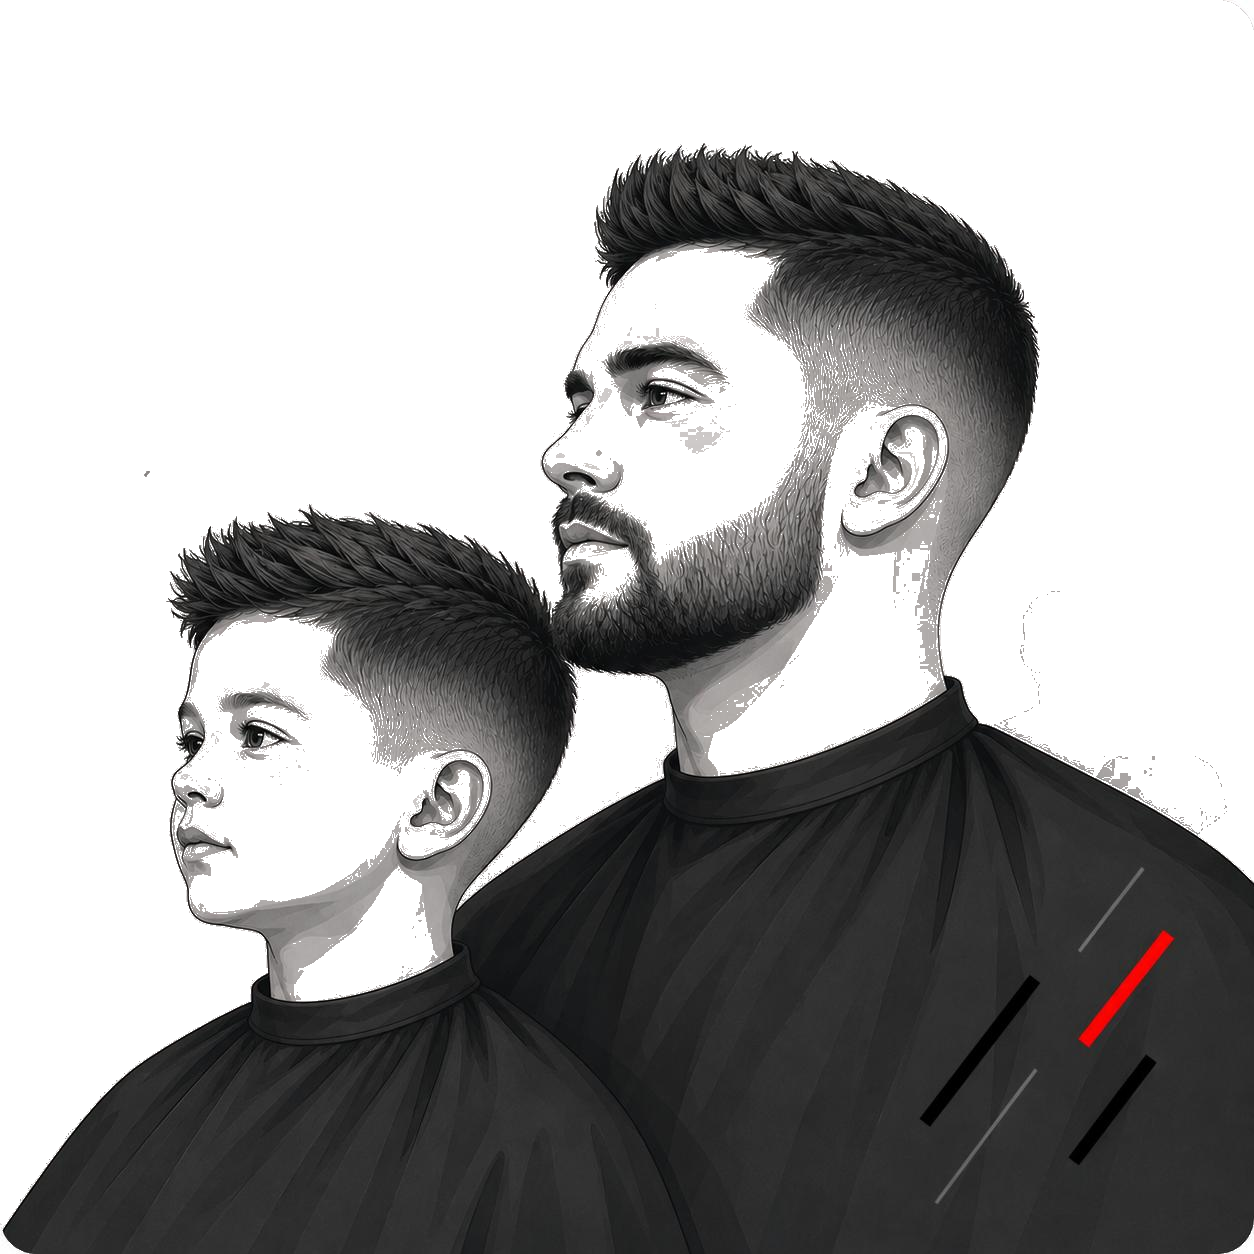
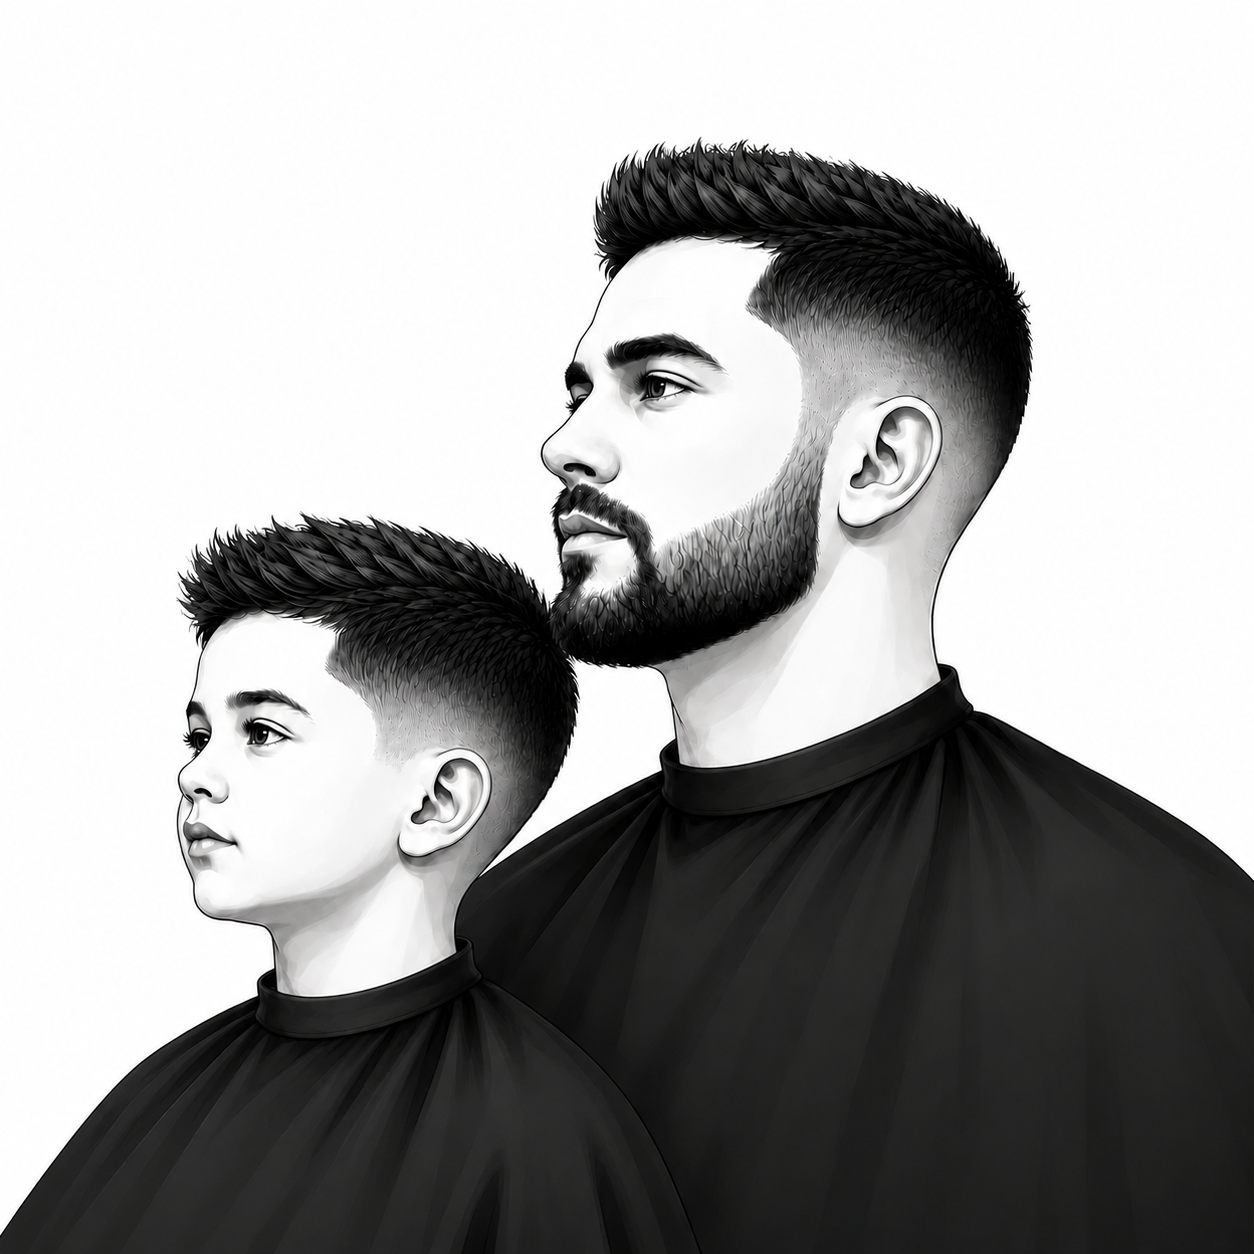
Add files via upload

diff --git a/app.js b/app.js
@@ -39,7 +39,7 @@ const masters=[
 {id:104,display:4,enabled:false},
 {id:105,display:5,enabled:false}
 ];
-const state={screen:'home',flow:'services',base:null,selectedExtras:{},phone:'',consentAccepted:true,master:null,masterBackendId:null,rating:null,selectedSource:null,modal:null,entry:'haircut',promoCode:'',promoDraft:'',promoError:'',promoValidating:false,useBonuses:false,bonusVerified:false,birthDraft:'',birthError:'',birthValidating:false,servicePin:'',servicePinError:'',servicePinValidating:false,serviceAuthed:false,serviceBusy:null,serviceMessages:[],promotionSelection:null,cosmeticsCategory:'shampoo',cosmeticsManufacturer:'ESTEL',cosmeticsCart:{},receiptTo:'none',receiptPhone:'',receiptEmail:'',emailDraft:'',emailError:'',emailSaving:false,emailShift:false,paymentMethod:'',scale:1};
+const state={screen:'home',flow:'services',base:null,selectedExtras:{},phone:'',consentAccepted:true,master:null,masterBackendId:null,rating:null,selectedSource:null,modal:null,entry:'haircut',promoCode:'',promoDraft:'',promoError:'',promoValidating:false,useBonuses:false,bonusVerified:false,birthDraft:'',birthError:'',birthValidating:false,servicePin:'',servicePinError:'',servicePinValidating:false,serviceAuthed:false,serviceBusy:null,serviceMessages:[],promotionSelection:null,cosmeticsCategory:'shampoo',cosmeticsManufacturer:'ESTEL',cosmeticsCart:{},receiptTo:'none',receiptPhone:'',receiptEmail:'',emailDraft:'',emailError:'',emailSaving:false,emailShift:false,emailSelectedDomain:'@mail.ru',paymentMethod:'',scale:1};
 const __p=new URLSearchParams(location.search);if(__p.get('demo')==='extras'){state.screen='extras';state.base=haircuts[1];state.entry='haircut';state.selectedExtras={'wash-style':1,'beard':1,'fade':1};}if(__p.get('demo')==='phone'){state.screen='phone';state.base=haircuts[1];state.entry='haircut';state.selectedExtras={'wash-style':1,'beard':1,'fade':1};}if(__p.get('demo')==='source'){state.screen='source';state.base=haircuts[1];state.entry='haircut';state.selectedExtras={'wash-style':1};}
 if(__p.get('demo')==='promos'){state.screen='promos';}
 if(__p.get('demo')==='cosmetics'){state.flow='cosmetics';state.screen='cosmetics';}
@@ -60,8 +60,17 @@ const serviceNameForReceipt=(base)=> base && base.id==='halfbox' ? 'Мужска
 const openPromoModal=()=>{state.promoDraft=state.promoCode||'';state.promoError='';state.promoValidating=false;state.modal='promo';render();};
 const closePromoModal=()=>{state.modal=null;state.promoDraft='';state.promoError='';state.promoValidating=false;render();};
 const validatePromoCode=(code)=> new Promise(resolve=>setTimeout(()=>{const normalized=(code||'').trim();const validCodes=new Set(['1234','1111','5555','123456']);if(validCodes.has(normalized))resolve({ok:true,code:normalized});else resolve({ok:false,message:'Промокод не найден или недействителен'});},450));
-const openEmailModal=()=>{state.emailDraft=state.receiptEmail||'';state.emailError='';state.emailSaving=false;state.emailShift=false;state.modal='email';render();};
-const closeEmailModal=()=>{state.modal=null;state.emailDraft='';state.emailError='';state.emailSaving=false;state.emailShift=false;render();};
+const openEmailModal=()=>{state.emailDraft=state.receiptEmail||'';const existingDomain=(state.emailDraft.includes('@')?'@'+state.emailDraft.split('@').slice(1).join('@'):'')||'';state.emailSelectedDomain=existingDomain||'@mail.ru';state.emailError='';state.emailSaving=false;state.emailShift=false;state.modal='email';render();};
+const closeEmailModal=()=>{state.modal=null;state.emailDraft='';state.emailError='';state.emailSaving=false;state.emailShift=false;state.emailSelectedDomain='@mail.ru';render();};
+const applyEmailDomain=(domain)=>{
+  if(!domain)return;
+  const current=state.emailDraft||'';
+  const at=current.indexOf('@');
+  state.emailDraft=at===-1 ? current+domain : current.slice(0,at)+domain;
+  state.emailSelectedDomain=domain;
+  state.emailError='';
+  render();
+};
 const emailLooksValid=(value)=>{const v=(value||'').trim();if(!v)return {ok:false,message:'Введите e-mail.'};if(/\s/.test(v)||!v.includes('@'))return {ok:false,message:'Проверьте правильность e-mail.'};const parts=v.split('@');if(parts.length!==2||!parts[0]||!parts[1]||!parts[1].includes('.')||parts[1].startsWith('.')||parts[1].endsWith('.'))return {ok:false,message:'Проверьте правильность e-mail.'};return {ok:true,value:v};};
 const saveReceiptEmail=async(value)=>{try{if(typeof window.STRIZHEM_SAVE_RECEIPT_EMAIL==='function'){const r=await window.STRIZHEM_SAVE_RECEIPT_EMAIL(value);return r&&typeof r==='object'?r:{ok:!!r};}return await new Promise(resolve=>setTimeout(()=>resolve({ok:true}),280));}catch(e){return {ok:false,message:'Не удалось сохранить e-mail. Попробуйте ещё раз.'};}};
 const openBirthModal=()=>{state.birthDraft='';state.birthError='';state.birthValidating=false;state.modal='birthdate';render();};
@@ -323,7 +332,7 @@ if(state.modal==='email'){
   const hasError=!!state.emailError;
   const canOk=!!state.emailDraft && !state.emailSaving;
   const letters=(s)=>s.split('').map(ch=>`<button type="button" class="email-key" data-email-key="${ch}">${state.emailShift?ch.toUpperCase():ch}</button>`).join('');
-  return `<div class="overlay promo-overlay email-overlay"><div class="modal email-modal" role="dialog" aria-modal="true" aria-labelledby="emailModalTitle"><div class="email-modal-header"><img src="./brand/logo.svg" alt="СТРИЖЁМ — мужские стрижки"></div><h2 id="emailModalTitle" class="email-modal-title">ВВЕДИТЕ E-MAIL</h2><div class="email-input-wrap ${hasError?'error':''}"><span class="email-input-value ${state.emailDraft?'filled':''}">${state.emailDraft||'Введите e-mail'}</span><button type="button" class="email-clear" data-action="email-clear" aria-label="Очистить">×</button></div><div class="email-error-slot ${hasError?'visible':''}">${hasError?`<span class="email-error-icon">!</span><span>${state.emailError}</span>`:'<span class="email-error-placeholder" aria-hidden="true"></span>'}</div><div class="email-keyboard"><div class="email-row email-row-12">${'1234567890'.split('').map(ch=>`<button type="button" class="email-key" data-email-key="${ch}">${ch}</button>`).join('')}<button type="button" class="email-key" data-email-key="-">-</button><button type="button" class="email-key" data-email-key="_">_</button></div><div class="email-row email-row-12">${letters('qwertyuiop')}<button type="button" class="email-key" data-email-key="@">@</button><button type="button" class="email-key" data-email-key=".">.</button></div><div class="email-row email-row-12"><button type="button" class="email-key email-shift ${state.emailShift?'active':''}" data-action="email-shift">⇧</button>${letters('asdfghjkl')}<button type="button" class="email-key" data-email-key=";">;</button><button type="button" class="email-key email-backspace" data-action="email-backspace">⌫</button></div><div class="email-row email-row-10"><button type="button" class="email-key email-quick" data-email-key=".com">.com</button>${letters('zxcvbnm')}<button type="button" class="email-key" data-email-key=",">,</button><button type="button" class="email-key email-quick wide" data-email-key="@gmail.com">@gmail.com</button></div><div class="email-row email-row-bottom"><button type="button" class="email-key email-muted" data-action="email-numbers">123</button><button type="button" class="email-key email-space" disabled>ПРОБЕЛ</button><button type="button" class="email-key email-muted" data-action="email-backspace">УДАЛИТЬ</button></div></div><div class="email-actions"><button type="button" class="email-cancel" data-action="cancel-email-modal">ОТМЕНА</button><button type="button" class="email-ok" data-action="confirm-email" ${canOk?'':'disabled'}>${state.emailSaving?'СОХРАНЕНИЕ...':'OK'}</button></div></div></div>`;
+  return `<div class="overlay promo-overlay email-overlay"><div class="modal email-modal" role="dialog" aria-modal="true" aria-labelledby="emailModalTitle"><div class="email-modal-header"><img src="./brand/logo.svg" alt="СТРИЖЁМ — мужские стрижки"></div><h2 id="emailModalTitle" class="email-modal-title">ВВЕДИТЕ E-MAIL</h2><div class="email-input-wrap ${hasError?'error':''}"><span class="email-input-value ${state.emailDraft?'filled':''}">${state.emailDraft||'Введите e-mail'}</span><button type="button" class="email-clear" data-action="email-clear" aria-label="Очистить">×</button></div><div class="email-error-slot ${hasError?'visible':''}">${hasError?`<span class="email-error-icon">!</span><span>${state.emailError}</span>`:'<span class="email-error-placeholder" aria-hidden="true"></span>'}</div><div class="email-keyboard"><div class="email-row email-row-12">${'1234567890'.split('').map(ch=>`<button type="button" class="email-key" data-email-key="${ch}">${ch}</button>`).join('')}<button type="button" class="email-key" data-email-key="-">-</button><button type="button" class="email-key" data-email-key="_">_</button></div><div class="email-row email-row-12">${letters('qwertyuiop')}<button type="button" class="email-key" data-email-key="@">@</button><button type="button" class="email-key" data-email-key=".">.</button></div><div class="email-row email-row-12"><button type="button" class="email-key email-shift ${state.emailShift?'active':''}" data-action="email-shift">⇧</button>${letters('asdfghjkl')}<button type="button" class="email-key" data-email-key=";">;</button><button type="button" class="email-key email-backspace" data-action="email-backspace">⌫</button></div><div class="email-row email-row-10 email-row-letters">${letters('zxcvbnm')}<button type="button" class="email-key" data-email-key=",">,</button><details class="email-domain-inline"><summary class="email-domain-trigger">${state.emailSelectedDomain||'@mail.ru'}</summary><div class="email-domain-menu"><button type="button" class="email-domain-option" data-email-domain="@mail.ru">@mail.ru</button><button type="button" class="email-domain-option" data-email-domain="@gmail.com">@gmail.com</button><button type="button" class="email-domain-option" data-email-domain="@yandex.ru">@yandex.ru</button><button type="button" class="email-domain-option" data-email-domain="@rambler.ru">@rambler.ru</button><button type="button" class="email-domain-option" data-email-domain="@bk.ru">@bk.ru</button><button type="button" class="email-domain-option" data-email-domain="@list.ru">@list.ru</button></div></details></div><div class="email-row email-row-bottom"><button type="button" class="email-key email-muted" data-action="email-numbers">123</button><button type="button" class="email-key email-space" disabled>ПРОБЕЛ</button><button type="button" class="email-key email-muted" data-action="email-backspace">УДАЛИТЬ</button></div></div><div class="email-actions"><button type="button" class="email-cancel" data-action="cancel-email-modal">ОТМЕНА</button><button type="button" class="email-ok" data-action="confirm-email" ${canOk?'':'disabled'}>${state.emailSaving?'СОХРАНЕНИЕ...':'OK'}</button></div></div></div>`;
 }
 if(state.modal==='promo'){
   const hasError=!!state.promoError;
@@ -346,7 +355,7 @@ app.addEventListener('click',e=>{const t=e.target;const a=t.closest('[data-actio
 const hc=t.closest('[data-haircut]');if(hc){state.base=haircuts.find(x=>x.id===hc.dataset.haircut);state.entry='haircut';render();setTimeout(()=>{state.screen='extras';render()},200);return}
 const pr=t.closest('[data-promotion]');if(pr){state.promotionSelection=pr.dataset.promotion;render();return}
 const plus=t.closest('[data-plus]');if(plus){changeExtra(plus.dataset.plus,1);return}const minus=t.closest('[data-minus]');if(minus){changeExtra(minus.dataset.minus,-1);return}const card=t.closest('[data-extra-card]');if(card){const id=card.dataset.extraCard;if((state.selectedExtras[id]||0)===0)changeExtra(id,1);return}
-const cc=t.closest('[data-cosmetics-category]');if(cc){state.cosmeticsCategory=cc.dataset.cosmeticsCategory;render();return}const cm=t.closest('[data-cosmetics-manufacturer]');if(cm){state.cosmeticsManufacturer=cm.dataset.cosmeticsManufacturer;render();return}const cp=t.closest('[data-cosmetics-plus]');if(cp){const id=cp.dataset.cosmeticsPlus;state.cosmeticsCart[id]=(state.cosmeticsCart[id]||0)+1;render();return}const cmin=t.closest('[data-cosmetics-minus]');if(cmin){const id=cmin.dataset.cosmeticsMinus;state.cosmeticsCart[id]=Math.max(0,(state.cosmeticsCart[id]||0)-1);render();return}const digit=t.closest('[data-digit]');if(digit){if(state.phone.length<10)state.phone+=digit.dataset.digit;render();return}const emailKey=t.closest('[data-email-key]');if(emailKey){let ch=emailKey.dataset.emailKey||'';if(ch.length===1&&/[a-z]/i.test(ch)&&state.emailShift)ch=ch.toUpperCase();state.emailDraft+=ch;state.emailError='';render();return}const promoDigit=t.closest('[data-promo-key]');if(promoDigit){if(state.promoDraft.length<12)state.promoDraft+=promoDigit.dataset.promoKey;state.promoError='';render();return}const birthDigit=t.closest('[data-birth-key]');if(birthDigit){if(state.birthDraft.length<8)state.birthDraft+=birthDigit.dataset.birthKey;state.birthError='';render();return}const serviceDigit=t.closest('[data-service-pin-key]');if(serviceDigit){state.servicePin+=serviceDigit.dataset.servicePinKey;state.servicePinError='';render();return}const src=t.closest('[data-source]');if(src){state.selectedSource=src.dataset.source;render();setTimeout(()=>{state.screen='rating';render();},180);return}const m=t.closest('[data-master]');if(m){if(m.dataset.enabled!=='true')return;const selected=masters.find(x=>x.display===Number(m.dataset.master));state.master=selected?.display||null;state.masterBackendId=selected?.id||null;render();return}const r=t.closest('[data-rating]');if(r){state.rating=Number(r.dataset.rating);render();return}const pay=t.closest('[data-pay]');if(pay){state.paymentMethod=pay.dataset.pay;render();return}});
+const cc=t.closest('[data-cosmetics-category]');if(cc){state.cosmeticsCategory=cc.dataset.cosmeticsCategory;render();return}const cm=t.closest('[data-cosmetics-manufacturer]');if(cm){state.cosmeticsManufacturer=cm.dataset.cosmeticsManufacturer;render();return}const cp=t.closest('[data-cosmetics-plus]');if(cp){const id=cp.dataset.cosmeticsPlus;state.cosmeticsCart[id]=(state.cosmeticsCart[id]||0)+1;render();return}const cmin=t.closest('[data-cosmetics-minus]');if(cmin){const id=cmin.dataset.cosmeticsMinus;state.cosmeticsCart[id]=Math.max(0,(state.cosmeticsCart[id]||0)-1);render();return}const digit=t.closest('[data-digit]');if(digit){if(state.phone.length<10)state.phone+=digit.dataset.digit;render();return}const emailKey=t.closest('[data-email-key]');if(emailKey){let ch=emailKey.dataset.emailKey||'';if(ch.length===1&&/[a-z]/i.test(ch)&&state.emailShift)ch=ch.toUpperCase();state.emailDraft+=ch;state.emailError='';render();return}const emailDomain=t.closest('[data-email-domain]');if(emailDomain){applyEmailDomain(emailDomain.dataset.emailDomain||'');return}const promoDigit=t.closest('[data-promo-key]');if(promoDigit){if(state.promoDraft.length<12)state.promoDraft+=promoDigit.dataset.promoKey;state.promoError='';render();return}const birthDigit=t.closest('[data-birth-key]');if(birthDigit){if(state.birthDraft.length<8)state.birthDraft+=birthDigit.dataset.birthKey;state.birthError='';render();return}const serviceDigit=t.closest('[data-service-pin-key]');if(serviceDigit){state.servicePin+=serviceDigit.dataset.servicePinKey;state.servicePinError='';render();return}const src=t.closest('[data-source]');if(src){state.selectedSource=src.dataset.source;render();setTimeout(()=>{state.screen='rating';render();},180);return}const m=t.closest('[data-master]');if(m){if(m.dataset.enabled!=='true')return;const selected=masters.find(x=>x.display===Number(m.dataset.master));state.master=selected?.display||null;state.masterBackendId=selected?.id||null;render();return}const r=t.closest('[data-rating]');if(r){state.rating=Number(r.dataset.rating);render();return}const pay=t.closest('[data-pay]');if(pay){state.paymentMethod=pay.dataset.pay;render();return}});
 let __serviceTapAt=0;
 app.addEventListener('pointerup',e=>{const trigger=e.target.closest('[data-service-trigger]');if(!trigger)return;const now=Date.now();if(now-__serviceTapAt<360){__serviceTapAt=0;openServicePinModal();}else{__serviceTapAt=now;}});
 app.addEventListener('input',e=>{if(e.target.id==='promoCode')state.promoCode=e.target.value.toUpperCase();});
